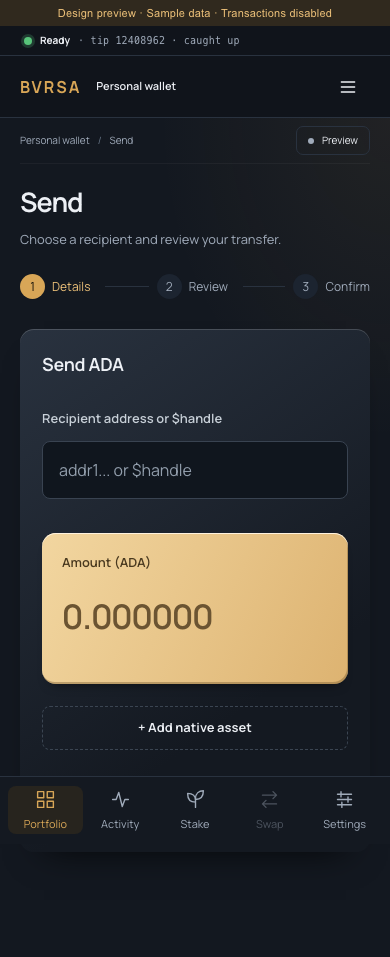
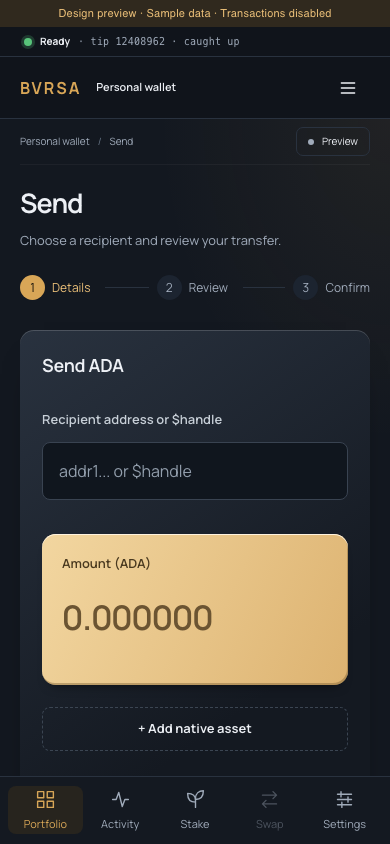
Capture mobile previews at the actual viewport size

diff --git a/docs/design/README.md b/docs/design/README.md
@@ -13,6 +13,10 @@ Responsive slate-and-gold redesign of Portfolio, Send, Receive, Activity, Stakin
 | Staking | [Desktop](screenshots/stake-desktop.png) | [Mobile](screenshots/stake-mobile.png) |
 | Settings | [Desktop](screenshots/settings-desktop.png) | [Mobile](screenshots/settings-mobile.png) |
 
+[Staking after scrolling](screenshots/stake-mobile-scrolled.png)
+
+Mobile images capture the actual 390 × 844 viewport. Full-page mobile captures place fixed navigation partway through the image, so they are avoided.
+
 [Visual gallery](gallery.html)
 
 ## Local preview
